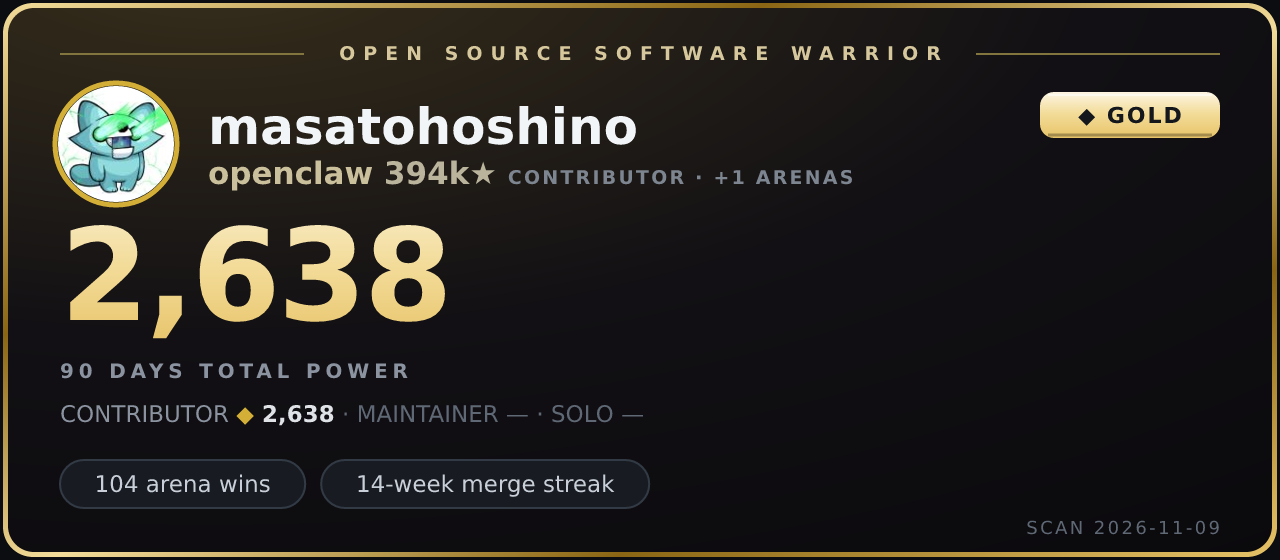
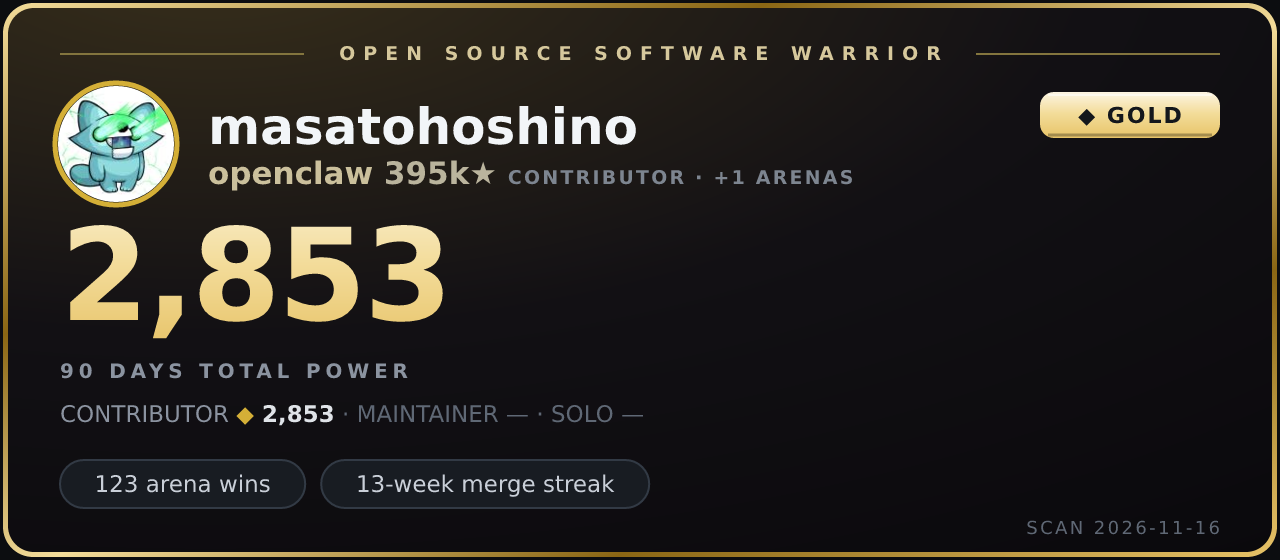
⚡ warrior scan 2026-11-16

diff --git a/warrior/site/share-2026-11-16.html b/warrior/site/share-2026-11-16.html
@@ -1,0 +1,109 @@
+<!doctype html>
+<html lang="en">
+<head>
+<meta charset="utf-8">
+<meta name="viewport" content="width=device-width, initial-scale=1">
+<title>⚡ masatohoshino — OSS power 2,853 (GOLD)</title>
+<meta property="og:type" content="website">
+<meta property="og:title" content="⚡ masatohoshino — OSS power 2,853 (GOLD)">
+<meta property="og:description" content="Open Source Software Warrior — every contribution counts. Measured from public GitHub events.">
+<meta property="og:image" content="https://masatohoshino.github.io/masatohoshino/card-2026-11-16.png">
+<meta property="og:url" content="https://masatohoshino.github.io/masatohoshino/share-2026-11-16.html">
+<meta name="twitter:card" content="summary_large_image">
+<meta name="twitter:image" content="https://masatohoshino.github.io/masatohoshino/card-2026-11-16.png">
+<style>
+ body{margin:0;background:#0c0d10;color:#e6e4df;font-family:system-ui,sans-serif;
+   display:flex;flex-direction:column;align-items:center;gap:22px;padding:48px 16px}
+ .card svg{max-width:100%;height:auto}
+ a.btn{color:#0c0d10;background:#e6e4df;border-radius:10px;padding:10px 22px;
+   text-decoration:none;font-weight:700}
+ a{color:#9fb6d0} p{color:#8f8d86;font-size:13px;max-width:52ch;text-align:center}
+</style>
+</head>
+<body>
+<div class="card"><svg xmlns="http://www.w3.org/2000/svg" width="640" height="280"
+  viewBox="0 0 640 280" role="img" aria-label="OSS Warrior card for masatohoshino">
+  <defs>
+    <linearGradient id="frame" x1="0" y1="0" x2="1" y2="1">
+      <stop offset="0" stop-color="#f3dc9a"/><stop offset=".3" stop-color="#8a6614"/>
+      <stop offset=".52" stop-color="#f3dc9a"/><stop offset=".74" stop-color="#8a6614"/>
+      <stop offset="1" stop-color="#e7c368"/>
+    </linearGradient>
+    <radialGradient id="bg" cx="16%" cy="-10%" r="140%">
+      <stop offset="0" stop-color="#382f1b"/>
+      <stop offset=".5" stop-color="#121014"/><stop offset="1" stop-color="#0a090c"/>
+    </radialGradient>
+    <linearGradient id="num" x1="0" y1="0" x2="0" y2="1">
+      <stop offset="0" stop-color="#f8ecc7"/>
+      <stop offset=".42" stop-color="#f3dc9a"/><stop offset="1" stop-color="#e7c368"/>
+    </linearGradient>
+    <linearGradient id="plaque" x1="0" y1="0" x2="0" y2="1">
+      <stop offset="0" stop-color="#fcf5e3"/>
+      <stop offset=".46" stop-color="#f3dc9a"/><stop offset="1" stop-color="#e7c368"/>
+    </linearGradient>
+    <clipPath id="ava"><circle cx="58" cy="72" r="29"/></clipPath>
+  </defs>
+
+  <rect x="1.5" y="1.5" width="637" height="277" rx="15" fill="url(#frame)"/>
+  <rect x="4" y="4" width="632" height="272" rx="13" fill="url(#bg)"/>
+  
+
+  <text x="320" y="30" text-anchor="middle" font-family="ui-monospace,SFMono-Regular,Menlo,monospace" font-size="9.5"
+    font-weight="600" letter-spacing="4" fill="#d6c89c">OPEN SOURCE SOFTWARE WARRIOR</text>
+  <line x1="30" y1="27" x2="152" y2="27" stroke="#83753e" stroke-width="1"/>
+  <line x1="488" y1="27" x2="610" y2="27" stroke="#83753e" stroke-width="1"/>
+
[1 lines of base64/hex data omitted]
+  <circle cx="58" cy="72" r="30.5" fill="none" stroke="#d4af37" stroke-width="2.5"/>
+  
+
+  <text x="104" y="72" font-family="system-ui,-apple-system,'Segoe UI',sans-serif" font-size="25" font-weight="800"
+    fill="#f2f5f8">masatohoshino</text>
+  
+    <text x="104" y="92" font-family="system-ui,-apple-system,'Segoe UI',sans-serif" font-size="15.5" font-weight="700"
+      fill="#cbc09c">openclaw
+      <tspan font-weight="600" fill="#bab49d"> 395k★</tspan>
+      <tspan font-size="9.5" letter-spacing="1.1" fill="#7d8590">  CONTRIBUTOR · +1 ARENAS</tspan>
+    </text>
+
+  <g>
+    <rect x="520" y="46" width="90" height="23" rx="7" fill="url(#plaque)"/>
+    <line x1="524" y1="47.5" x2="606" y2="47.5"
+      stroke="rgba(255,255,255,.55)" stroke-width="1"/>
+    <line x1="524" y1="67.5" x2="606" y2="67.5"
+      stroke="rgba(0,0,0,.3)" stroke-width="1.5"/>
+    <text x="565" y="61.5" text-anchor="middle" font-family="ui-monospace,SFMono-Regular,Menlo,monospace"
+      font-size="11" font-weight="800" letter-spacing="1" fill="#14171c">◆ GOLD</text>
+  </g>
+
+  <text x="30" y="160" font-family="system-ui,-apple-system,'Segoe UI',sans-serif" font-size="64" font-weight="800"
+    letter-spacing="-1.5" fill="url(#num)">2,853</text>
+  <text x="30" y="189" font-family="ui-monospace,SFMono-Regular,Menlo,monospace" font-size="10" letter-spacing="2.4"
+    font-weight="600" fill="#8b93a0">90 DAYS TOTAL POWER</text>
+
+  <text x="30" y="211" font-family="ui-monospace,SFMono-Regular,Menlo,monospace" font-size="11.5"><tspan fill="#8b93a0">CONTRIBUTOR </tspan><tspan fill="#d4af37">◆</tspan><tspan fill="#dfe3e8" font-weight="600"> 2,853</tspan><tspan fill="#5f6875"> · </tspan><tspan fill="#5f6875">MAINTAINER —</tspan><tspan fill="#5f6875"> · </tspan><tspan fill="#5f6875">SOLO —</tspan></text>
+
+  
+  
+    <g transform="translate(30,230)">
+      <rect width="122.6" height="24" rx="12" fill="#181c22"
+        stroke="#323a45"/>
+      <text x="61.3" y="16" text-anchor="middle" font-family="system-ui,-apple-system,'Segoe UI',sans-serif"
+        font-size="11.5" fill="#c9cfd8">123 arena wins</text>
+    </g>
+    <g transform="translate(160.6,230)">
+      <rect width="164" height="24" rx="12" fill="#181c22"
+        stroke="#323a45"/>
+      <text x="82" y="16" text-anchor="middle" font-family="system-ui,-apple-system,'Segoe UI',sans-serif"
+        font-size="11.5" fill="#c9cfd8">13-week merge streak</text>
+    </g>
+
+  <text x="610" y="267" text-anchor="end" font-family="ui-monospace,SFMono-Regular,Menlo,monospace" font-size="9"
+    letter-spacing="1.2" fill="#5f6875">SCAN 2026-11-16</text>
+</svg></div>
+<a class="btn" href="https://x.com/intent/post?text=%E2%9A%A1%20My%20OSS%20power%20level%3A%202%2C853%20%E2%80%94%20RANK%20GOLD%0AEvery%20contribution%20counts.&amp;url=https%3A%2F%2Fmasatohoshino.github.io%2Fmasatohoshino%2Fshare-2026-11-16.html">Post to X</a>
+<p>Every figure derives from public GitHub events — reproducible by anyone.<br>
+<a href="https://github.com/masatohoshino/oss-warrior">⚡ Measure your own power level</a> ·
+<a href="scouter.html">🔍 Scan any account</a></p>
+</body>
+</html>

diff --git a/warrior/site/index.html b/warrior/site/index.html
@@ -3,14 +3,14 @@
 <head>
 <meta charset="utf-8">
 <meta name="viewport" content="width=device-width, initial-scale=1">
-<title>⚡ masatohoshino — OSS power 2,638 (GOLD)</title>
+<title>⚡ masatohoshino — OSS power 2,853 (GOLD)</title>
 <meta property="og:type" content="website">
-<meta property="og:title" content="⚡ masatohoshino — OSS power 2,638 (GOLD)">
+<meta property="og:title" content="⚡ masatohoshino — OSS power 2,853 (GOLD)">
 <meta property="og:description" content="Open Source Software Warrior — every contribution counts. Measured from public GitHub events.">
-<meta property="og:image" content="https://masatohoshino.github.io/masatohoshino/card-2026-11-09.png">
-<meta property="og:url" content="https://masatohoshino.github.io/masatohoshino/share-2026-11-09.html">
+<meta property="og:image" content="https://masatohoshino.github.io/masatohoshino/card-2026-11-16.png">
+<meta property="og:url" content="https://masatohoshino.github.io/masatohoshino/share-2026-11-16.html">
 <meta name="twitter:card" content="summary_large_image">
-<meta name="twitter:image" content="https://masatohoshino.github.io/masatohoshino/card-2026-11-09.png">
+<meta name="twitter:image" content="https://masatohoshino.github.io/masatohoshino/card-2026-11-16.png">
 <style>
  body{margin:0;background:#0c0d10;color:#e6e4df;font-family:system-ui,sans-serif;
    display:flex;flex-direction:column;align-items:center;gap:22px;padding:48px 16px}
@@ -62,7 +62,7 @@
   
     <text x="104" y="92" font-family="system-ui,-apple-system,'Segoe UI',sans-serif" font-size="15.5" font-weight="700"
       fill="#cbc09c">openclaw
-      <tspan font-weight="600" fill="#bab49d"> 394k★</tspan>
+      <tspan font-weight="600" fill="#bab49d"> 395k★</tspan>
       <tspan font-size="9.5" letter-spacing="1.1" fill="#7d8590">  CONTRIBUTOR · +1 ARENAS</tspan>
     </text>
 
@@ -77,11 +77,11 @@
   </g>
 
   <text x="30" y="160" font-family="system-ui,-apple-system,'Segoe UI',sans-serif" font-size="64" font-weight="800"
-    letter-spacing="-1.5" fill="url(#num)">2,638</text>
+    letter-spacing="-1.5" fill="url(#num)">2,853</text>
   <text x="30" y="189" font-family="ui-monospace,SFMono-Regular,Menlo,monospace" font-size="10" letter-spacing="2.4"
     font-weight="600" fill="#8b93a0">90 DAYS TOTAL POWER</text>
 
-  <text x="30" y="211" font-family="ui-monospace,SFMono-Regular,Menlo,monospace" font-size="11.5"><tspan fill="#8b93a0">CONTRIBUTOR </tspan><tspan fill="#d4af37">◆</tspan><tspan fill="#dfe3e8" font-weight="600"> 2,638</tspan><tspan fill="#5f6875"> · </tspan><tspan fill="#5f6875">MAINTAINER —</tspan><tspan fill="#5f6875"> · </tspan><tspan fill="#5f6875">SOLO —</tspan></text>
+  <text x="30" y="211" font-family="ui-monospace,SFMono-Regular,Menlo,monospace" font-size="11.5"><tspan fill="#8b93a0">CONTRIBUTOR </tspan><tspan fill="#d4af37">◆</tspan><tspan fill="#dfe3e8" font-weight="600"> 2,853</tspan><tspan fill="#5f6875"> · </tspan><tspan fill="#5f6875">MAINTAINER —</tspan><tspan fill="#5f6875"> · </tspan><tspan fill="#5f6875">SOLO —</tspan></text>
 
   
   
@@ -89,19 +89,19 @@
       <rect width="122.6" height="24" rx="12" fill="#181c22"
         stroke="#323a45"/>
       <text x="61.3" y="16" text-anchor="middle" font-family="system-ui,-apple-system,'Segoe UI',sans-serif"
-        font-size="11.5" fill="#c9cfd8">104 arena wins</text>
+        font-size="11.5" fill="#c9cfd8">123 arena wins</text>
     </g>
     <g transform="translate(160.6,230)">
       <rect width="164" height="24" rx="12" fill="#181c22"
         stroke="#323a45"/>
       <text x="82" y="16" text-anchor="middle" font-family="system-ui,-apple-system,'Segoe UI',sans-serif"
-        font-size="11.5" fill="#c9cfd8">14-week merge streak</text>
+        font-size="11.5" fill="#c9cfd8">13-week merge streak</text>
     </g>
 
   <text x="610" y="267" text-anchor="end" font-family="ui-monospace,SFMono-Regular,Menlo,monospace" font-size="9"
-    letter-spacing="1.2" fill="#5f6875">SCAN 2026-11-09</text>
+    letter-spacing="1.2" fill="#5f6875">SCAN 2026-11-16</text>
 </svg></div>
-<a class="btn" href="https://x.com/intent/post?text=%E2%9A%A1%20My%20OSS%20power%20level%3A%202%2C638%20%E2%80%94%20RANK%20GOLD%0AEvery%20contribution%20counts.&amp;url=https%3A%2F%2Fmasatohoshino.github.io%2Fmasatohoshino%2Fshare-2026-11-09.html">Post to X</a>
+<a class="btn" href="https://x.com/intent/post?text=%E2%9A%A1%20My%20OSS%20power%20level%3A%202%2C853%20%E2%80%94%20RANK%20GOLD%0AEvery%20contribution%20counts.&amp;url=https%3A%2F%2Fmasatohoshino.github.io%2Fmasatohoshino%2Fshare-2026-11-16.html">Post to X</a>
 <p>Every figure derives from public GitHub events — reproducible by anyone.<br>
 <a href="https://github.com/masatohoshino/oss-warrior">⚡ Measure your own power level</a> ·
 <a href="scouter.html">🔍 Scan any account</a></p>

diff --git a/README.md b/README.md
@@ -30,7 +30,7 @@ and reusable parts intended for public release.
 Mostly for fun.
 
 <!-- oss-warrior:start -->
-[![OSS Warrior card](warrior/card.svg)](https://x.com/intent/post?text=%E2%9A%A1%20My%20OSS%20power%20level%3A%202%2C638%20%E2%80%94%20RANK%20GOLD%0AEvery%20contribution%20counts.&url=https%3A%2F%2Fmasatohoshino.github.io%2Fmasatohoshino%2Fshare-2026-11-09.html)
+[![OSS Warrior card](warrior/card.svg)](https://x.com/intent/post?text=%E2%9A%A1%20My%20OSS%20power%20level%3A%202%2C853%20%E2%80%94%20RANK%20GOLD%0AEvery%20contribution%20counts.&url=https%3A%2F%2Fmasatohoshino.github.io%2Fmasatohoshino%2Fshare-2026-11-16.html)
 
 🔍 [**Scan any GitHub account with the scouter**](https://masatohoshino.github.io/masatohoshino/scouter.html)
 
@@ -40,16 +40,16 @@ Mostly for fun.
 
 | League | Power | Rank | Next rank |
 |---|---:|---|---|
-| CONTRIBUTOR | 2,638 | GOLD (Mainstay) | PLATINUM at 3,700 (71%) |
+| CONTRIBUTOR | 2,853 | GOLD (Mainstay) | PLATINUM at 3,700 (77%) |
 | MAINTAINER | 0 | UNCHARTED | BRONZE at 175 (0%) |
 | SOLO | 0 | UNCHARTED | BRONZE at 175 (0%) |
 
-**TOTAL POWER 2,638** — GOLD · PLATINUM at 3,700 (71%) · window 2026-08-11 → 2026-11-09 (90d-normalized ×1.00)
+**TOTAL POWER 2,853** — GOLD · PLATINUM at 3,700 (77%) · window 2026-08-18 → 2026-11-16 (90d-normalized ×1.00)
 
 
 **Badges**
-- **104** arena wins
-- **14**-week merge streak
+- **123** arena wins
+- **13**-week merge streak
 
 <sub>Every figure derives from public GitHub events. Formulas: [SPEC](./SPEC.md).</sub>
 

diff --git a/warrior/table.md b/warrior/table.md
@@ -2,15 +2,15 @@
 
 | League | Power | Rank | Next rank |
 |---|---:|---|---|
-| CONTRIBUTOR | 2,638 | GOLD (Mainstay) | PLATINUM at 3,700 (71%) |
+| CONTRIBUTOR | 2,853 | GOLD (Mainstay) | PLATINUM at 3,700 (77%) |
 | MAINTAINER | 0 | UNCHARTED | BRONZE at 175 (0%) |
 | SOLO | 0 | UNCHARTED | BRONZE at 175 (0%) |
 
-**TOTAL POWER 2,638** — GOLD · PLATINUM at 3,700 (71%) · window 2026-08-11 → 2026-11-09 (90d-normalized ×1.00)
+**TOTAL POWER 2,853** — GOLD · PLATINUM at 3,700 (77%) · window 2026-08-18 → 2026-11-16 (90d-normalized ×1.00)
 
 
 **Badges**
-- **104** arena wins
-- **14**-week merge streak
+- **123** arena wins
+- **13**-week merge streak
 
 <sub>Every figure derives from public GitHub events. Formulas: [SPEC](./SPEC.md).</sub>
